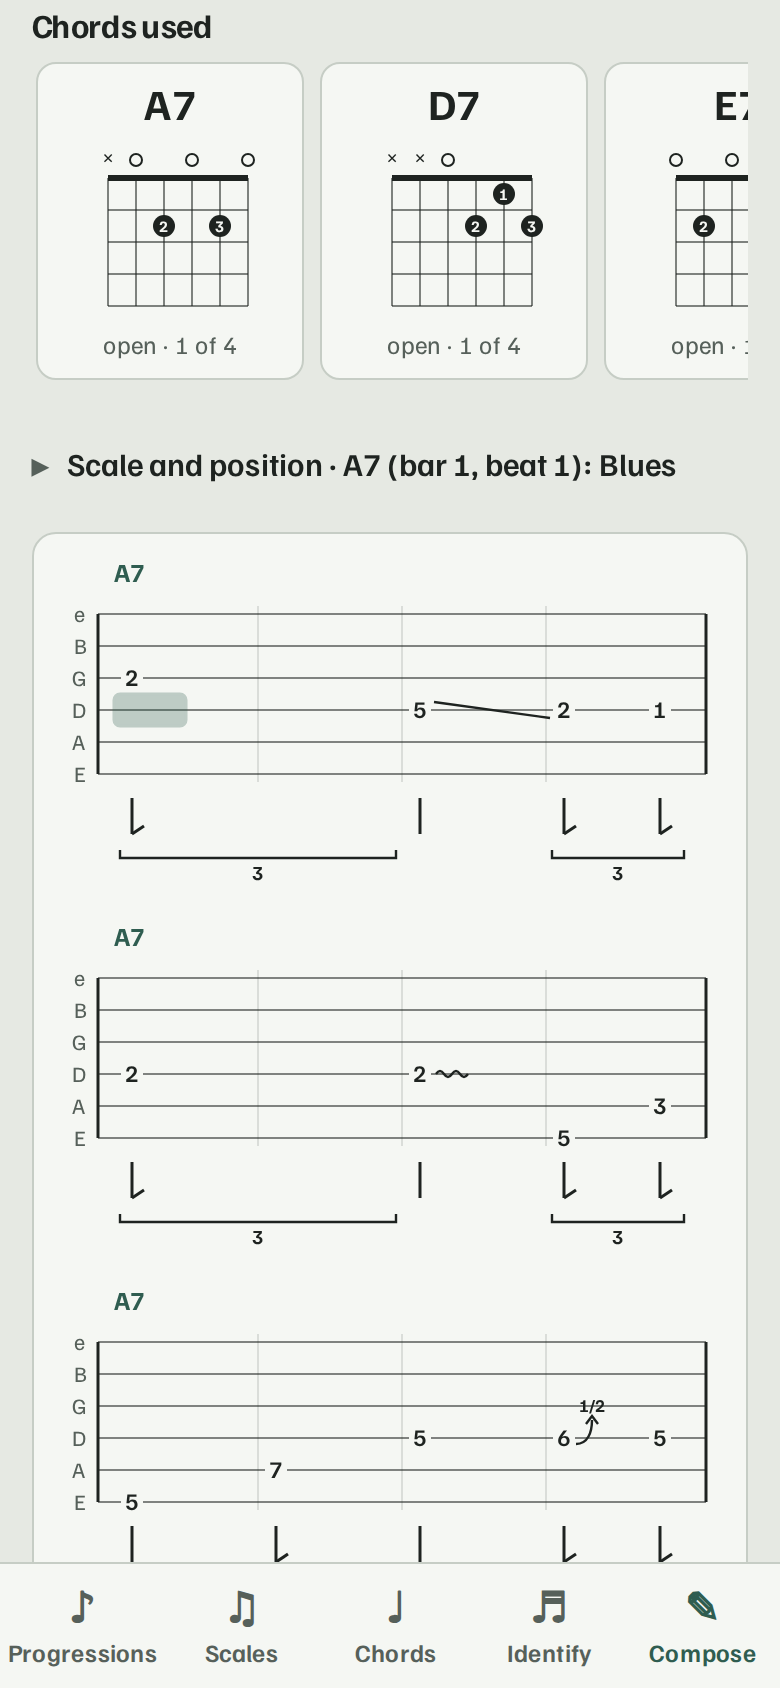
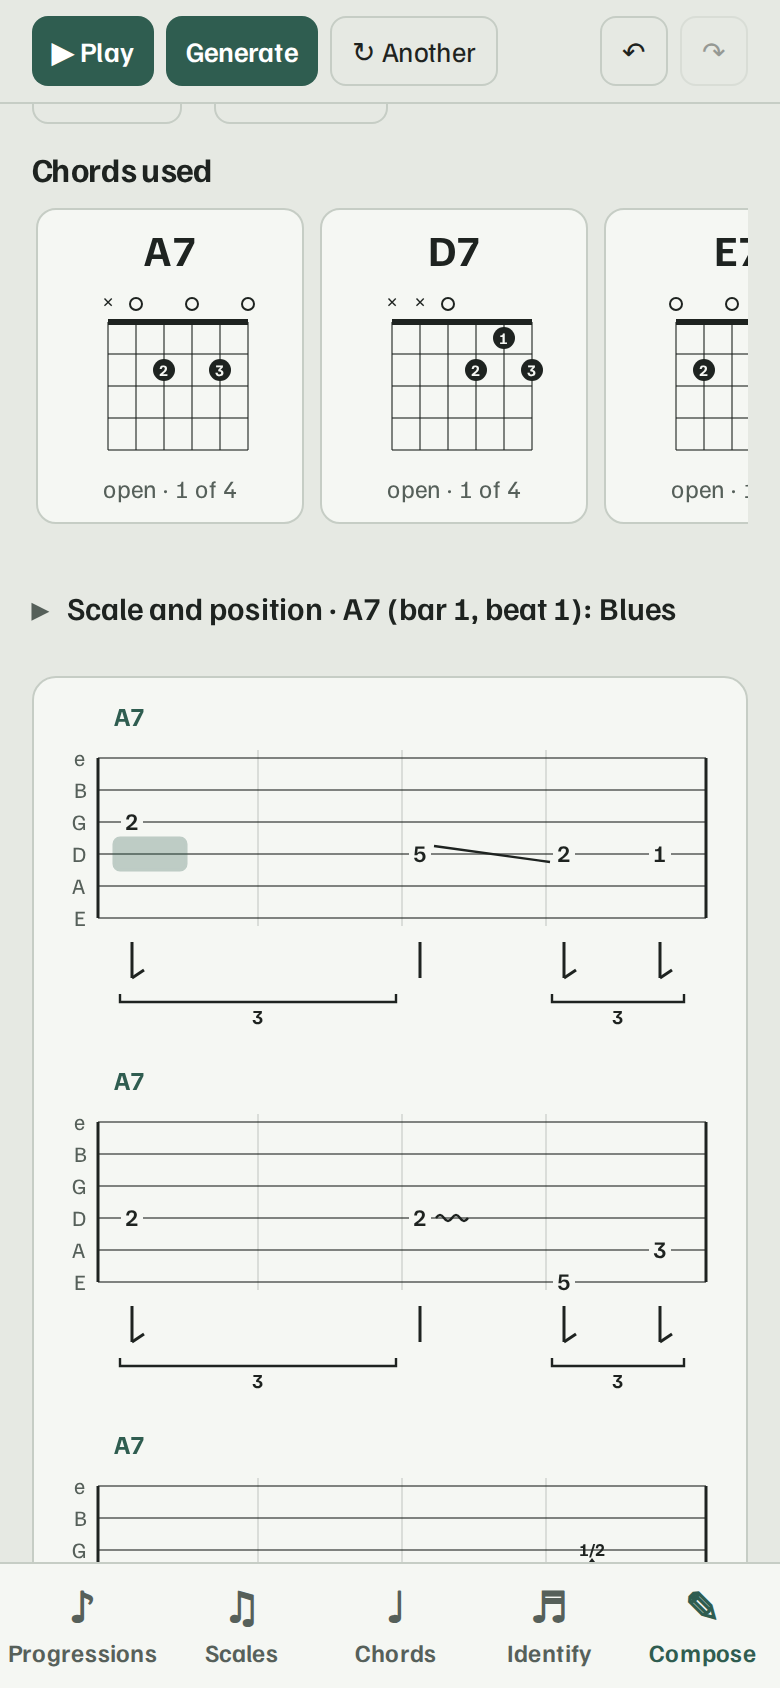
Compose: pin Play, Generate, Another one, Undo and Redo while scrolling

diff --git a/site/view-compose.js b/site/view-compose.js
@@ -24,12 +24,14 @@ export function mount(root){
       <h1>Compose</h1>
       <p class="lead">Write a riff or solo as tab - or let the generator write one over your chords. Click a spot, type the fret number, and it plays back.</p>
     </header>
-    <div class="tabtools" role="group" aria-label="Compose tools">
-      <button type="button" class="play" id="tb-play">▶ Play</button>
+    <div class="stickybar" role="group" aria-label="Playback and generator">
+      <button type="button" class="play" id="tb-play">\u25B6 Play</button>
       <button type="button" class="play" id="tb-gen-go" title="Write a solo over the chords (settings below)">Generate</button>
-      <button type="button" class="share" id="tb-gen-new" title="Generate again with a new seed">Another one</button>
-      <button type="button" class="share" id="tb-undo">Undo</button>
-      <button type="button" class="share" id="tb-redo">Redo</button>
+      <button type="button" class="share" id="tb-gen-new" title="Generate again with a new seed" aria-label="Another one: generate again with a new seed"><span aria-hidden="true">\u21BB</span> Another<span class="lbl"> one</span></button>
+      <button type="button" class="share" id="tb-undo" aria-label="Undo"><span aria-hidden="true">\u21B6</span><span class="lbl"> Undo</span></button>
+      <button type="button" class="share" id="tb-redo" aria-label="Redo"><span aria-hidden="true">\u21B7</span><span class="lbl"> Redo</span></button>
+    </div>
+    <div class="tabtools" role="group" aria-label="Tempo, sharing and export">
       <label class="keylab">Tempo <input id="tb-bpm" type="number" min="40" max="220" step="1" inputmode="numeric"> BPM</label>
       <button type="button" class="share" id="tb-share" title="A link that opens this tab (notes, chords, settings and seed) for someone else">Copy link</button>
       <button type="button" class="share" id="tb-pdf" title="Print the tab with its chord boxes - choose Save as PDF in the print dialog">Export PDF</button>

diff --git a/site/styles.css b/site/styles.css
@@ -174,11 +174,20 @@ h3{font-size:1.05rem;margin:30px 0 6px}
 
 /* ---- Tab editor ---- */
 .tabtools{display:flex;flex-wrap:wrap;align-items:center;gap:8px 14px;margin:6px 0 4px}
+/* The controls you need all the time (play, generate, undo) stay on screen while the page scrolls. */
+.stickybar{position:sticky;top:env(safe-area-inset-top,0px);z-index:9;display:flex;align-items:center;gap:8px;
+  margin:0 -16px 8px;padding:8px 16px;background:var(--bg);border-bottom:1px solid var(--line)}
+.stickybar button{white-space:nowrap}
+.stickybar #tb-undo,.stickybar #tb-redo{margin-left:auto}
+.stickybar #tb-undo+#tb-redo{margin-left:0}
+.stickybar button:disabled{opacity:.4;cursor:default}
+@media (max-width:520px){ .stickybar{gap:6px} .stickybar .lbl{display:none} .stickybar button{padding-inline:10px;font-size:.88rem} }
+html{scroll-padding-top:72px;scroll-padding-bottom:84px}
 .tabtools .share:disabled,.row .share:disabled{opacity:.4;cursor:default}
 .tabwrap{margin-top:14px;background:var(--panel);border:1.5px solid var(--line);border-radius:12px;padding:10px 6px;overflow-x:auto}
 .tabsvg{display:block;color:var(--ink);font-family:inherit}
 .tabline{stroke:currentColor;stroke-width:1;opacity:.55}
-.tabbar{stroke:currentColor;stroke-width:1.5}
+.tabbarline{stroke:currentColor;stroke-width:1.5}
 .tabbeat{stroke:currentColor;stroke-width:1;opacity:.12}
 .tabname{fill:var(--muted)}
 .tabchord{fill:var(--accent)}

diff --git a/site/tab-view.js b/site/tab-view.js
@@ -36,7 +36,7 @@ export function tabSvg(tab, inst, { perRow, cursor = null, editable = false, gri
     const y0 = row * rowHeight(n) + CHORD_H, bars = Math.min(perRow, tab.bars.length - row * perRow);
     names.forEach((nm, s) => { g += `<text class="tabname" x="${LEFT - 6}" y="${y0 + s * SG + 4}" text-anchor="end" font-size="11">${esc(nm)}</text>`; });
     for (let s = 0; s < n; s++) g += `<line class="tabline" x1="${LEFT}" y1="${y0 + s * SG}" x2="${LEFT + bars * BAR_W}" y2="${y0 + s * SG}"/>`;
-    for (let c = 0; c <= bars; c++) g += `<line class="tabbar" x1="${LEFT + c * BAR_W}" y1="${y0}" x2="${LEFT + c * BAR_W}" y2="${y0 + (n - 1) * SG}"/>`;
+    for (let c = 0; c <= bars; c++) g += `<line class="tabbarline" x1="${LEFT + c * BAR_W}" y1="${y0}" x2="${LEFT + c * BAR_W}" y2="${y0 + (n - 1) * SG}"/>`;
   }
   tab.bars.forEach((bar, bi) => {
     const { x: bx, y: y0 } = stepPos(n, perRow, bi, 0);

diff --git a/AGENTS.md b/AGENTS.md
@@ -283,6 +283,14 @@ measures tuning (<3 cents at 22.05/44.1/48 kHz), loudness (+-0.5 dB), decay tren
 content, centroid, cost; the e2e test renders the real chain in an OfflineAudioContext. If a sampled guitar is ever wanted,
 Tone.Sampler (vendored, lazy-loaded, listed in sw.js SHELL, excluded from CodeQL and from the site test's URL scan) is the plan.
 
+### Pinned controls
+
+The Compose page's essential row (`.stickybar`: Play, Generate, Another one, Undo, Redo) is `position: sticky` under the
+top of the viewport (`z-index` 9, below the fixed bottom bar at 10); `html{scroll-padding}` keeps `scrollIntoView` (cursor,
+playhead) from landing under it. On phones its labels collapse (`.lbl`) so the row fits 390 px. The e2e test scrolls a phone to
+the bottom and checks the bar is pinned, fits, is not covered, and that Generate works from there. The other controls
+(tempo, Copy link, Export PDF) stay in normal flow. (The same pattern could pin "Play progression" on Progressions.)
+
 ### Sharing a tab
 
 `tab-share.js` (pure): `#compose?i=&t=&cp=&lh=&d=<base64url json>` (`#tab?...` is the old name and still works: `tabOf` aliases it). `d` is a compact JSON (`v:1`, `n` title, `b` bpm,

diff --git a/CHANGELOG.md b/CHANGELOG.md
@@ -1,5 +1,11 @@
 # Changelog
 
+## Unreleased
+
+- Compose: Play, Generate, Another one, Undo and Redo are pinned to the top of the page while you scroll (on a phone they
+  shrink to fit one row: "\u21bb Another", "\u21b6", "\u21b7"), so the essential controls are always within reach. The SVG bar
+  lines no longer share the navigation's `tabbar` class name.
+
 ## 2.0.0 - 2026-10-14
 
 A large release: Fretwork is now also a composer.
